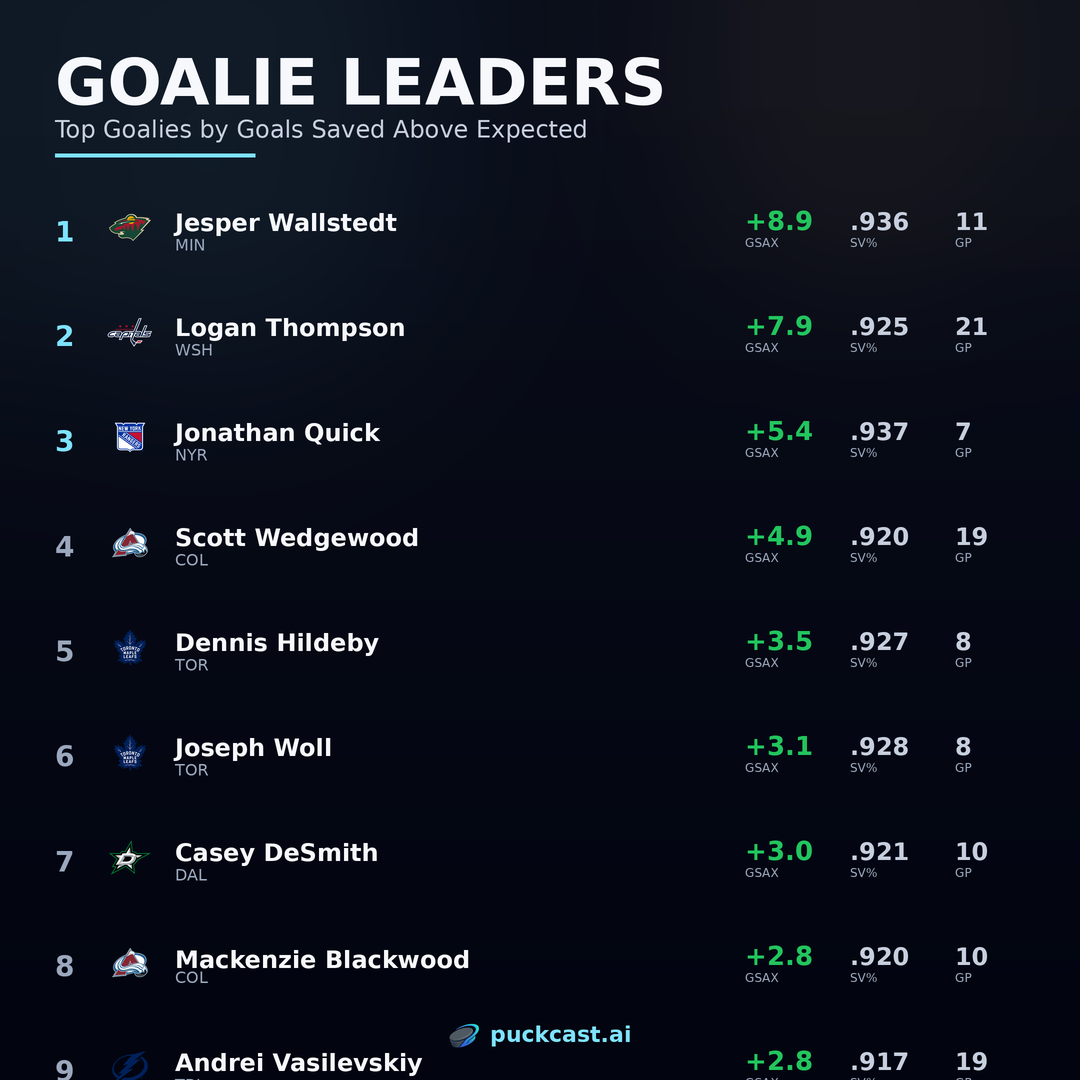
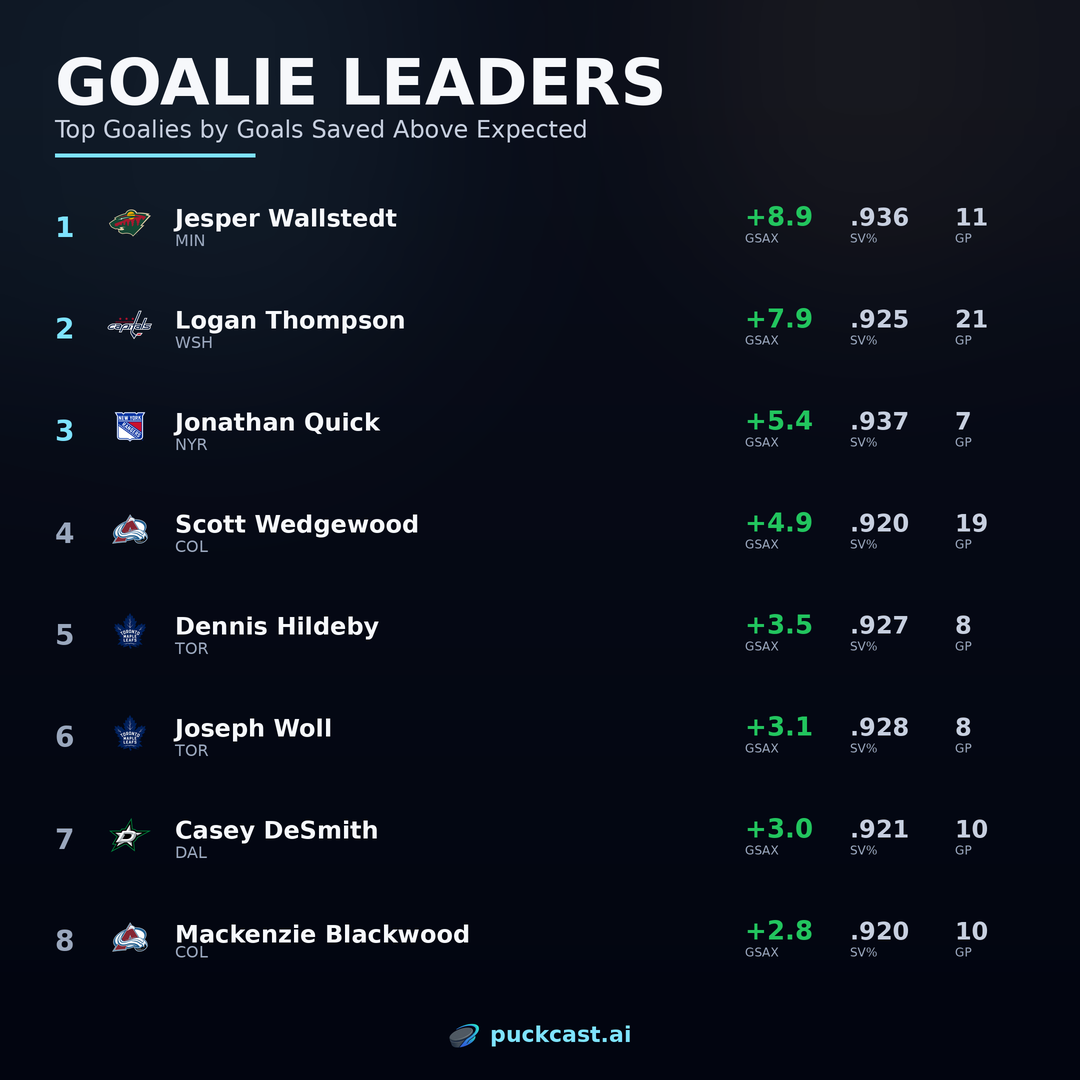
fix: adjust goalie leaderboard spacing to prevent footer overlap
- Reduce to 8 goalies (was 9)
- Reduce row height to S(92) and gap to S(10)
- Ensures clean footer display without content cutoff

diff --git a/graphics/templates/goalie_leaderboard.py b/graphics/templates/goalie_leaderboard.py
@@ -135,12 +135,12 @@ def generate_goalie_leaderboard_image(goalies: List[Dict]) -> Image.Image:
     line_y = S(155)
     draw.line([(margin, line_y), (margin + S(200), line_y)], fill=hex_to_rgb(PuckcastColors.AQUA), width=S(4))
 
-    # Goalie rows - show 9 to avoid bottom cutoff
-    content_y = line_y + S(25)
-    row_height = S(95)
+    # Goalie rows - show 8 with proper spacing for footer
+    content_y = line_y + S(22)
+    row_height = S(92)
     row_gap = S(10)
 
-    for i, goalie in enumerate(goalies[:9], 1):
+    for i, goalie in enumerate(goalies[:8], 1):
         y_pos = content_y + (i - 1) * (row_height + row_gap)
         draw_goalie_row(img, draw, goalie, i, y_pos, margin, row_height)
 
